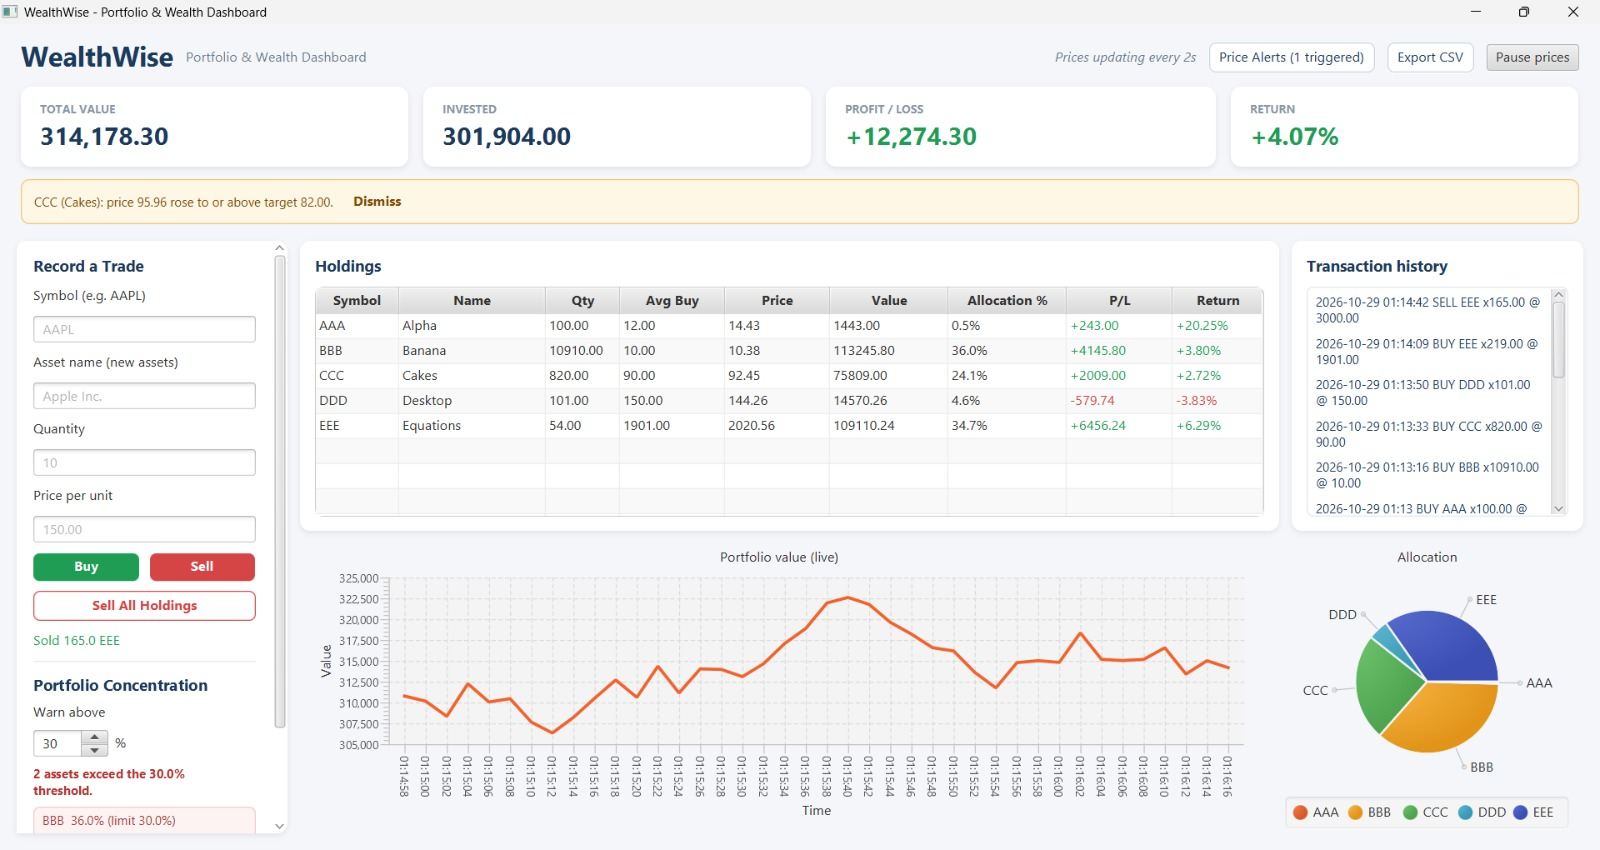
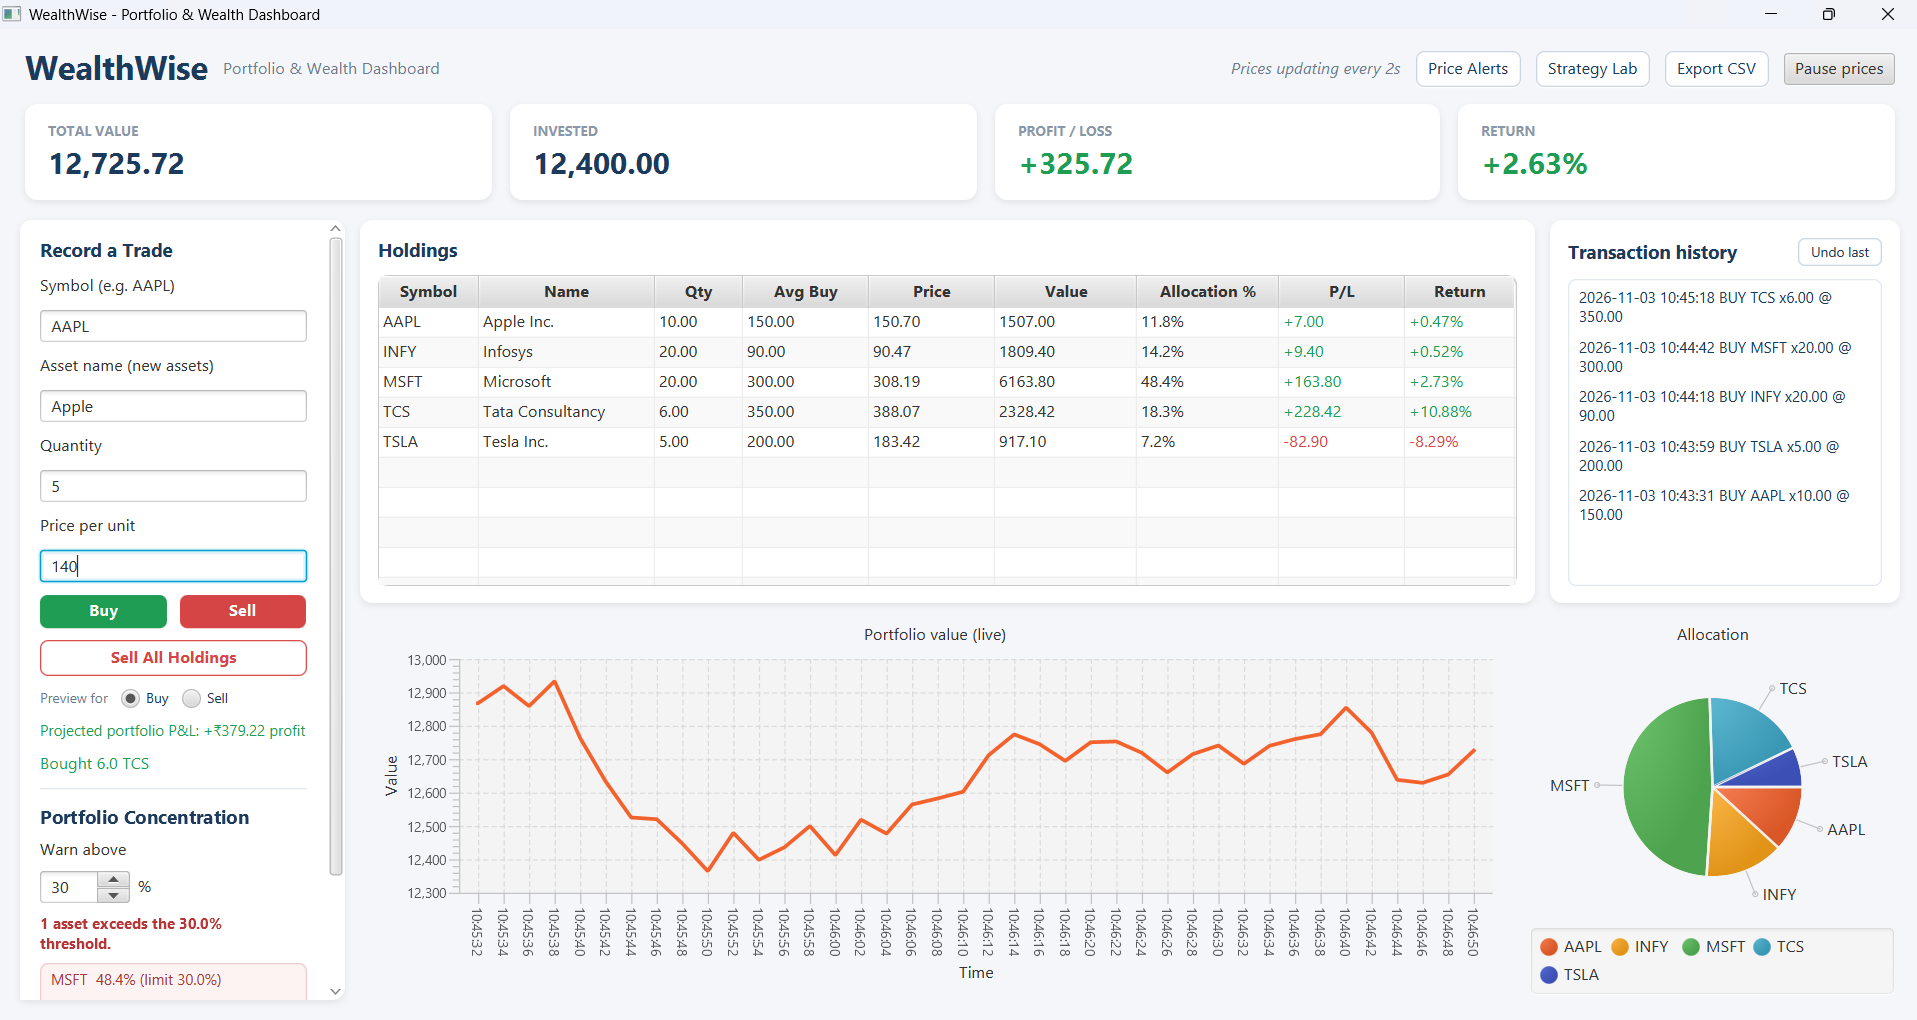
docs: redesign README header and overview

diff --git a/README.md b/README.md
@@ -1,103 +1,19 @@
-# WealthWise - Portfolio & Wealth Dashboard
+<h1 align="center">WealthWise</h1>
 
-WealthWise is a JavaFX desktop application for tracking a simulated investment portfolio. It lets you buy and sell assets, watch prices change, review concentration warnings, and keep data in a local SQLite database.
+<p align="center">
+  <strong>A multi-threaded JavaFX dashboard for tracking, stress-testing and understanding a simulated investment portfolio.</strong><br>
+  Live prices. Risk warnings. Strategy backtesting. Everything saved locally.
+</p>
 
-This project was built as a Semester 3 end-semester project for the course Advanced Java Programming.
+<p align="center">
+  <code>Java 21</code> &nbsp; <code>JavaFX 21</code> &nbsp; <code>SQLite</code> &nbsp; <code>JDBC</code> &nbsp; <code>Maven</code> &nbsp; <code>JUnit 5</code>
+</p>
 
-## Features
+<p align="center">
+  <img src="screenshots/portfolio-with-assets.png" alt="WealthWise dashboard with summary cards, holdings table, value chart and allocation pie chart" width="100%"><br>
+  <sub>The live dashboard: summary cards, holdings with allocation and P/L, transaction history, a value chart and an allocation pie chart.</sub>
+</p>
 
-- Buy and sell assets with input validation.
-- Weighted-average buy price and protection against selling more than you own.
-- Holdings table with quantity, prices, value, allocation, P/L, and return.
-- Summary cards for total value, invested, profit/loss, and return.
-- Background price simulator (2-second updates, pause/resume), value chart, and allocation pie chart.
-- Price alerts with upward or downward targets, checked on each simulated price update and saved across restarts.
-- Portfolio concentration panel that warns above a configurable threshold (default 30%).
-- Transaction history, Sell All confirmation, and a scrollable sidebar for smaller windows.
-- CSV export of the summary, holdings, allocation, and transactions; automatic saving to SQLite.
+WealthWise is a desktop application for learning how an investment portfolio behaves. Record buys and sells, watch simulated prices move in the background, get warned when too much of your money sits in one asset, set price alerts, and test investing strategies against thousands of possible futures before risking anything. Prices are simulated, never real market data.
 
-Prices are simulated, not real market data.
-
-## Tech Stack
-
-- Java 21
-- JavaFX 21.0.5 (Controls and FXML)
-- FXML and CSS interface
-- SQLite via sqlite-jdbc 3.46.1.3
-- Maven with javafx-maven-plugin 0.0.8
-- JUnit 5 (Jupiter 5.10.2) for tests
-
-The code is split into layers: `ui` (controllers, FXML), `service`/`model` (portfolio, alerts, concentration), `price` (simulator), `export` (CSV), and `db` (SQLite).
-
-## Getting Started
-
-### Prerequisites
-
-- JDK 21
-- Maven 3.9 or newer
-- No separate database server is needed
-
-Dependencies are downloaded by Maven.
-
-### Installation
-
-Clone the repository and build the project:
-
-```bash
-git clone https://github.com/gay3-dumb/WealthWise.git
-cd WealthWise
-mvn clean install
-```
-
-### Configuration
-
-No configuration is required. On first launch the app creates `wealthwise.db` in the working directory; it stores holdings, transactions, and alerts and loads them automatically.
-
-## Usage
-
-Start the application from the project directory:
-
-```bash
-mvn javafx:run
-```
-
-Then:
-
-1. Enter a symbol, optional asset name, quantity, and price; the name defaults to the symbol for a new asset.
-2. Click Buy or Sell. Quantity and price must be positive, and you cannot sell more than you own.
-3. Use Pause prices and Resume prices to control simulated updates.
-4. Watch the table, summary cards, charts, and history update. Use Price Alerts to set an upward or downward target for a holding; each alert triggers once, shows a notification, and stays listed until removed.
-5. Set the concentration threshold; assets above it are listed. The setting applies for this session.
-6. Use Sell All Holdings to close every position at its current price after a confirmation dialog.
-
-Use Export CSV to choose a location and save the summary, holdings, allocation, and transactions as a UTF-8 CSV with a byte-order mark for spreadsheet software. The app saves changes after trades and when the window closes.
-
-## Screenshots
-
-### Opening screen
-
-![Opening screen](screenshots/opening-screen.png)
-
-### Portfolio with assets
-
-![Portfolio with assets](screenshots/portfolio-with-assets.png)
-
-### Price alert dialog
-
-![Price alert dialog](screenshots/price-alert-dialog.png)
-
-### Sell All confirmation
-
-![Sell All confirmation](screenshots/sell-all-confirmation.png)
-
-## Contributing
-
-1. Create a branch for your change.
-2. Make the change and keep it focused.
-3. Run the tests:
-
-   ```bash
-   mvn test
-   ```
-
-4. Commit, push, and open a pull request into `main`.
+Built as a Semester 3 end-semester project for **Advanced Java Programming**. The central Java concept is **multithreading**: a background price engine, a worker thread pool for simulations, and a safe hand-off from background threads to the JavaFX screen thread.
